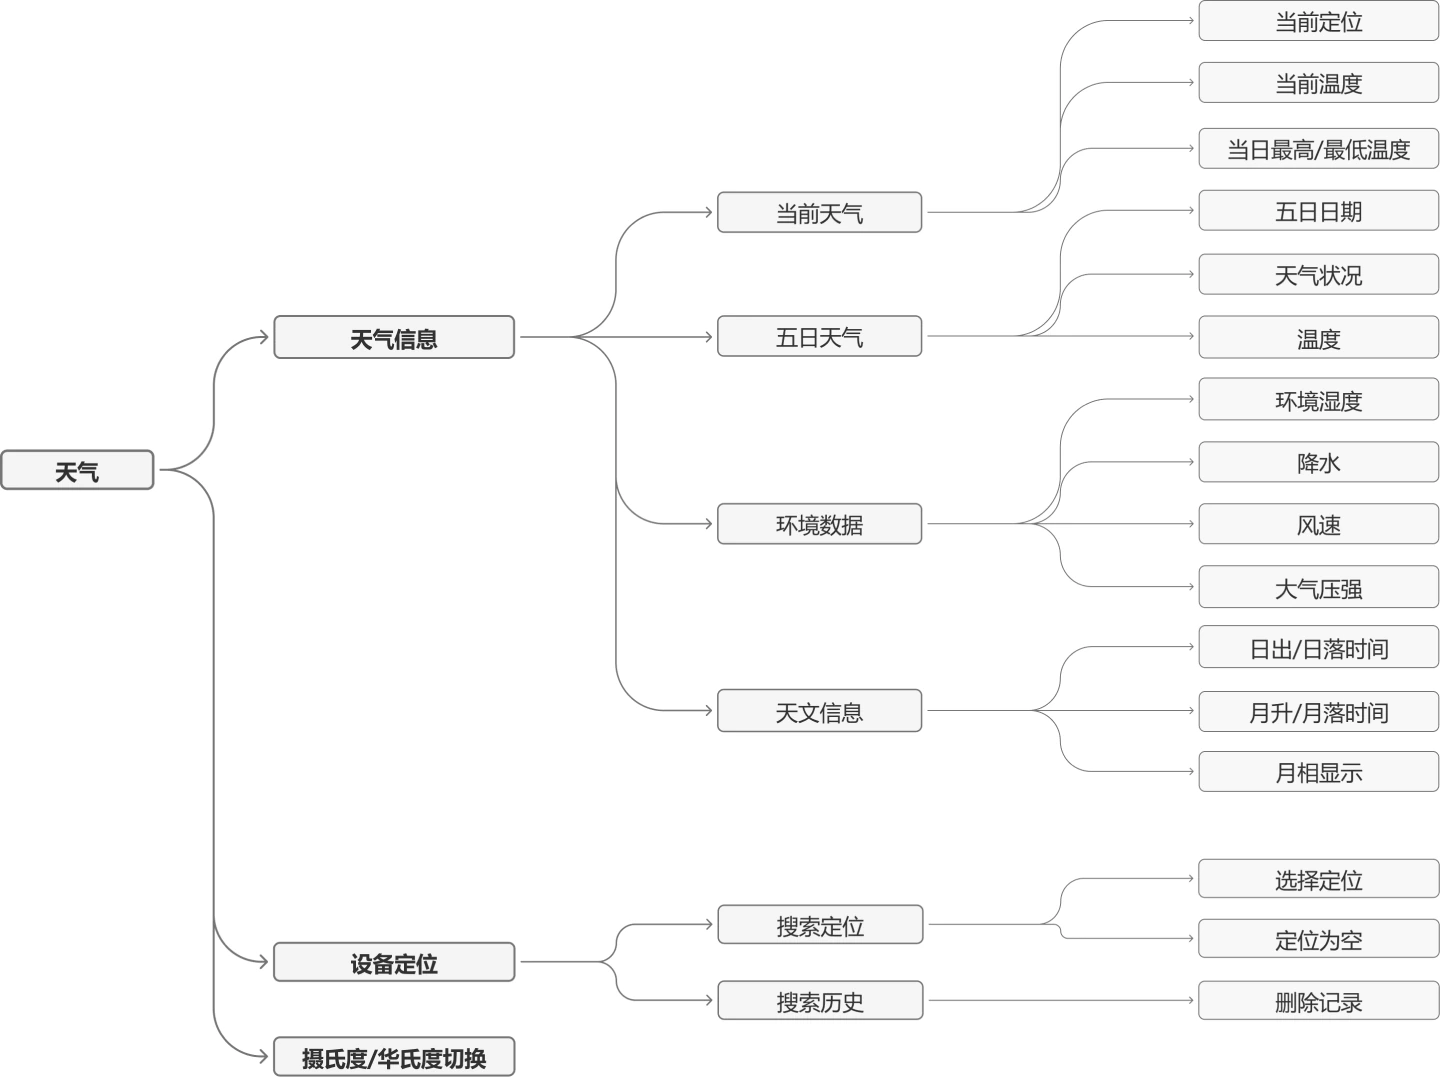
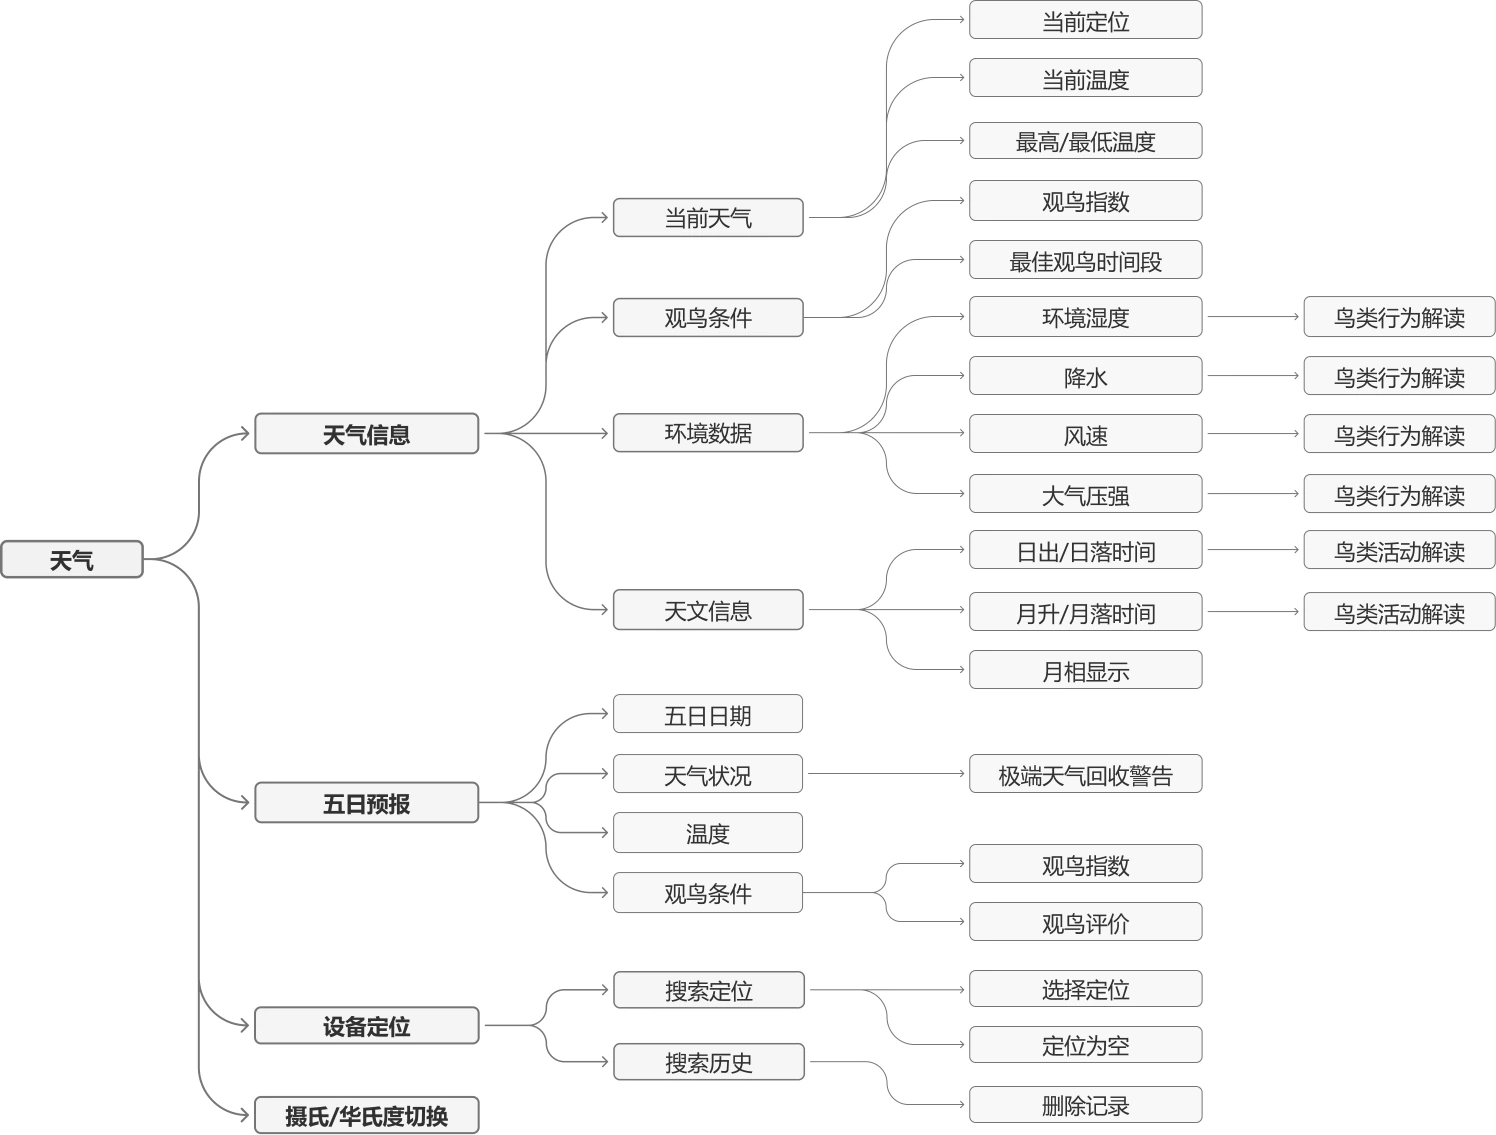
Update Project 2 pages 2-4 and 2-5

diff --git a/project-2/index.html b/project-2/index.html
@@ -153,7 +153,7 @@
           src="./assets/page-2-visual.webp"
           alt=""
           draggable="false"
-          data-node-id="860:378" decoding="async" loading="lazy"
+          data-node-id="963:4008" data-name="1" decoding="async" loading="lazy"
         />
 
         <div class="project-title page-2-title title-reveal" data-node-id="860:379" data-name="标题">
@@ -163,15 +163,18 @@
           </div>
         </div>
 
-        <div class="page-2-note note-1" data-node-id="860:383">
+        <div class="page-2-note note-1" data-node-id="963:4004" data-name="1-1">
           <p>甲方已提供功能需求列表，</p>
           <p>但尚未形成清晰的信息体系</p>
         </div>
-        <div class="page-2-note note-2" data-node-id="860:384">
-          <p>基于功能需求列表，</p>
-          <p>使用 AI 快速生成信息架构初稿</p>
+        <div class="page-2-note note-2" data-node-id="963:4005" data-name="1-2">
+          <p>使用 AI 快速生成信息架构初稿，</p>
+          <p>并基于前期分析进行人工矫正</p>
         </div>
-        <p class="page-2-note note-3" data-node-id="860:385">重新调整部分功能的归属与层级<br />使其围绕用户认知路径重新组织</p>
+        <div class="page-2-note note-3" data-node-id="963:4006" data-name="1-3">
+          <p>使用 Figma Make 快速生成初版界面，</p>
+          <p>并基于用户路径进行层级调整</p>
+        </div>
 
         <aside class="right-panel green-reveal green-reveal-y-top" data-node-id="575:1617" data-name="绿">
           <div class="right-panel-copy" data-node-id="860:387">
@@ -183,14 +186,14 @@
         </aside>
         </section>
 
-        <section class="figma-frame page-3" data-node-id="575:1779" data-name="2-5">
+        <section class="figma-frame page-3" data-node-id="575:1779" data-figma-current-node-id="963:4010" data-name="2-5">
           <div class="page-3-bg-block green-reveal green-reveal-x-right" data-node-id="583:1340" data-name="绿" aria-hidden="true"></div>
           <img
             class="figma-layer page-3-left"
             src="./assets/page-3-left.webp"
             alt=""
             draggable="false"
-            data-node-id="860:394"
+            data-node-id="963:5280" data-name="1"
             decoding="async"
             loading="lazy"
           />
@@ -199,40 +202,22 @@
             src="./assets/page-3-phone-weather.webp"
             alt=""
             draggable="false"
-            data-node-id="860:391"
-            decoding="async"
-            loading="lazy"
-          />
-          <img
-            class="figma-layer page-3-phone-search-bottom"
-            src="./assets/page-3-phone-search-bottom.webp"
-            alt=""
-            draggable="false"
-            data-node-id="860:392"
-            decoding="async"
-            loading="lazy"
-          />
-          <img
-            class="figma-layer page-3-phone-search-top"
-            src="./assets/page-3-phone-search-top.webp"
-            alt=""
-            draggable="false"
-            data-node-id="860:393"
+            data-node-id="963:5282" data-name="2"
             decoding="async"
             loading="lazy"
           />
 
-          <div class="project-title page-3-title title-reveal" data-node-id="860:395" data-name="标题">
-            <h1 data-node-id="860:396">让信息结构逐渐进入界面</h1>
-            <div class="title-substack compact" data-node-id="860:397">
-              <div class="title-substack compact inner" data-node-id="860:398">
-                <p class="subtitle inter-subtitle" data-node-id="860:399">从页面信息架构到中保真原型的结构落地过程</p>
+          <div class="project-title page-3-title title-reveal" data-node-id="963:4011" data-name="标题">
+            <h1 data-node-id="963:4012">让信息结构逐渐进入界面</h1>
+            <div class="title-substack compact" data-node-id="963:4013">
+              <div class="title-substack compact inner" data-node-id="963:4014">
+                <p class="subtitle inter-subtitle" data-node-id="963:4015">从页面信息架构到中保真原型的结构落地过程</p>
               </div>
             </div>
           </div>
 
-        <p class="page-3-copy" data-node-id="860:400">
-          基于最终信息架构，我进一步梳理了“天气”模块的页面级结构与核心路径，<br />
+        <p class="page-3-copy" data-node-id="963:4016" data-name="Text">
+          我进一步梳理了“天气”模块的页面级结构与核心路径，<br />
           并通过中保真原型验证其在界面中的可理解性与可访问性。
         </p>
         </section>

diff --git a/project-2/styles.css b/project-2/styles.css
@@ -244,21 +244,21 @@ body {
 }
 
 .note-1 {
-  left: 200px;
+  left: 180px;
   top: 296px;
-  width: 202px;
+  width: 194px;
 }
 
 .note-2 {
-  left: 611px;
+  left: 591px;
   top: 296px;
-  width: 217px;
+  width: 235px;
 }
 
 .note-3 {
-  left: 1045px;
+  left: 1053px;
   top: 296px;
-  width: 226px;
+  white-space: nowrap;
 }
 
 .right-panel {
@@ -315,17 +315,19 @@ body {
 }
 
 .page-3-left {
-  left: 109px;
-  top: 420px;
-  width: 720px;
-  height: 538.502px;
+  left: 108px;
+  top: 415px;
+  width: 748px;
+  height: 567.25px;
+  object-fit: contain;
 }
 
 .page-3-phone-weather {
-  left: 1164px;
-  top: 330px;
-  width: 289px;
-  height: 590px;
+  left: 1046px;
+  top: 41px;
+  width: 790px;
+  height: 1038px;
+  object-fit: contain;
 }
 
 .page-3-phone-search-bottom {
@@ -354,7 +356,7 @@ body {
   position: absolute;
   left: 109px;
   top: 296px;
-  width: 682px;
+  width: 600px;
   margin: 0;
   color: #5f5f5f;
   font-family: "Microsoft YaHei", "PingFang SC", Arial, sans-serif;

diff --git a/project-2/green-reveal.js b/project-2/green-reveal.js
@@ -3,7 +3,9 @@
   const page2Green = document.querySelector('[data-node-id="575:1617"]');
   const page3Green = document.querySelector('[data-node-id="583:1340"]');
   const page2 = document.querySelector('[data-node-id="575:1434"]');
-  const page3 = document.querySelector('[data-node-id="575:1779"]');
+  const page3 =
+    document.querySelector('[data-node-id="575:1779"]') ||
+    document.querySelector(".page-3");
   const page1RevealDelayMs = 300;
   const page2RevealDelayMs = 300;
 
